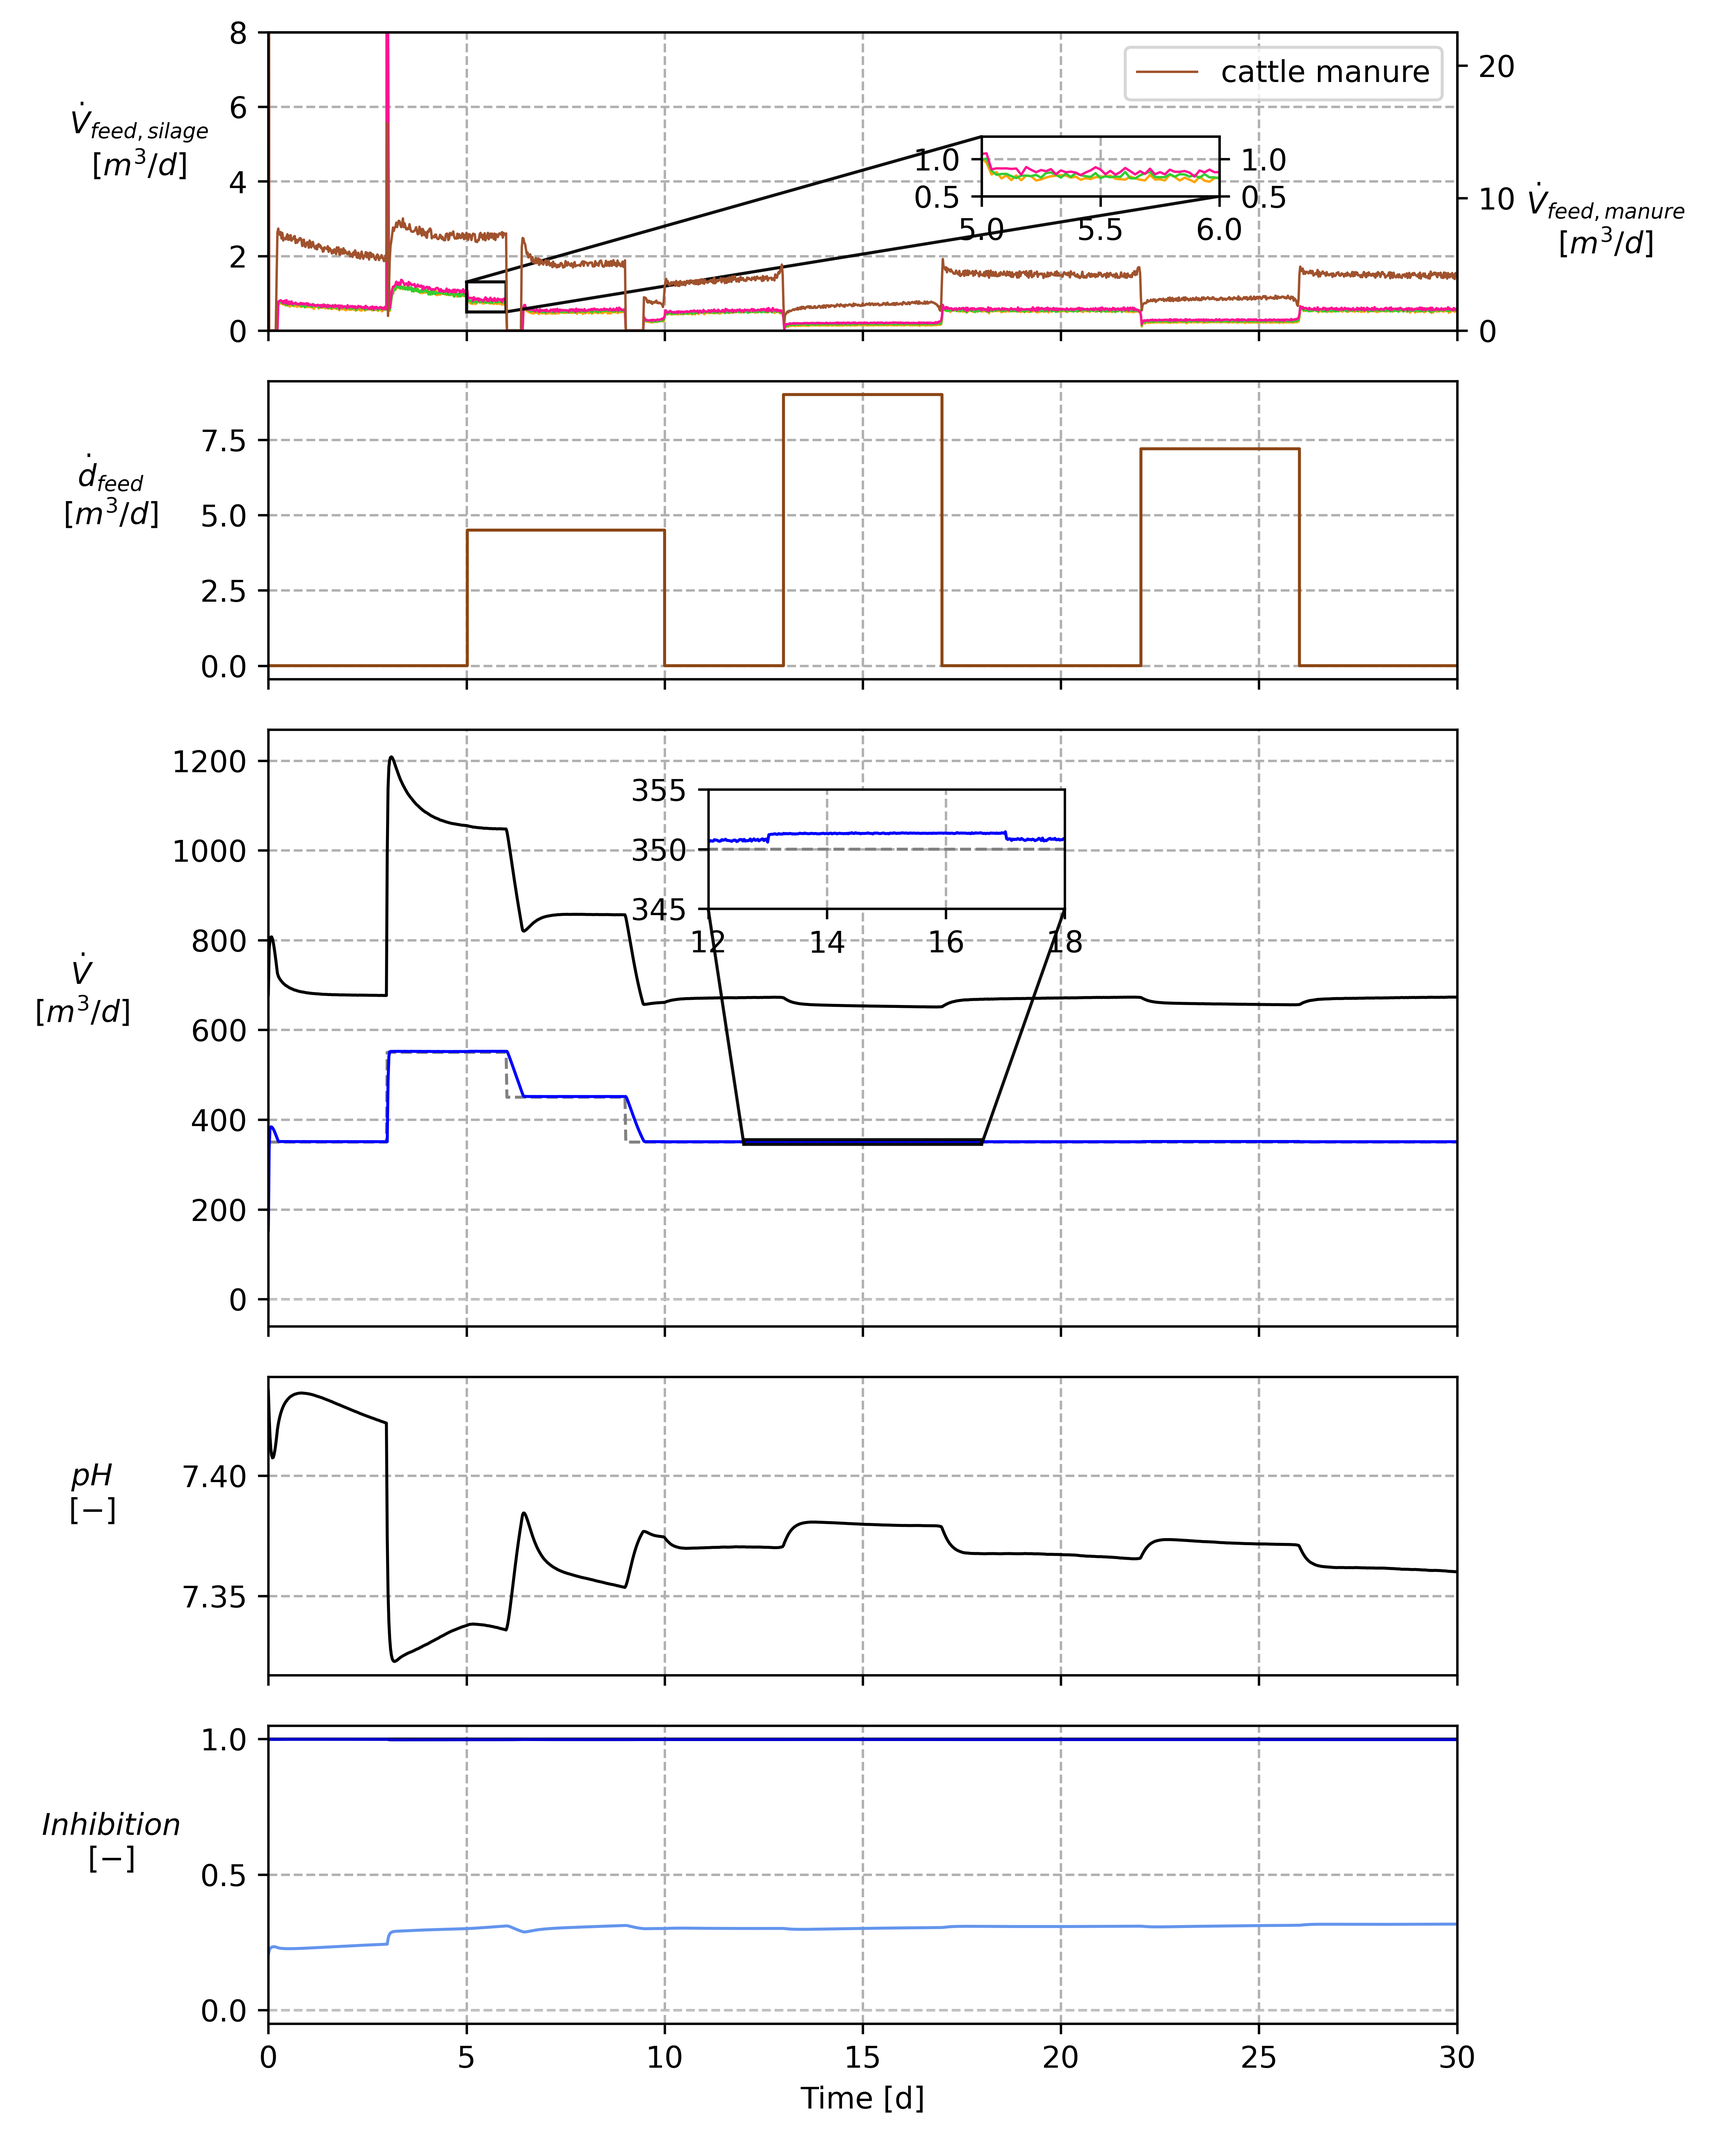
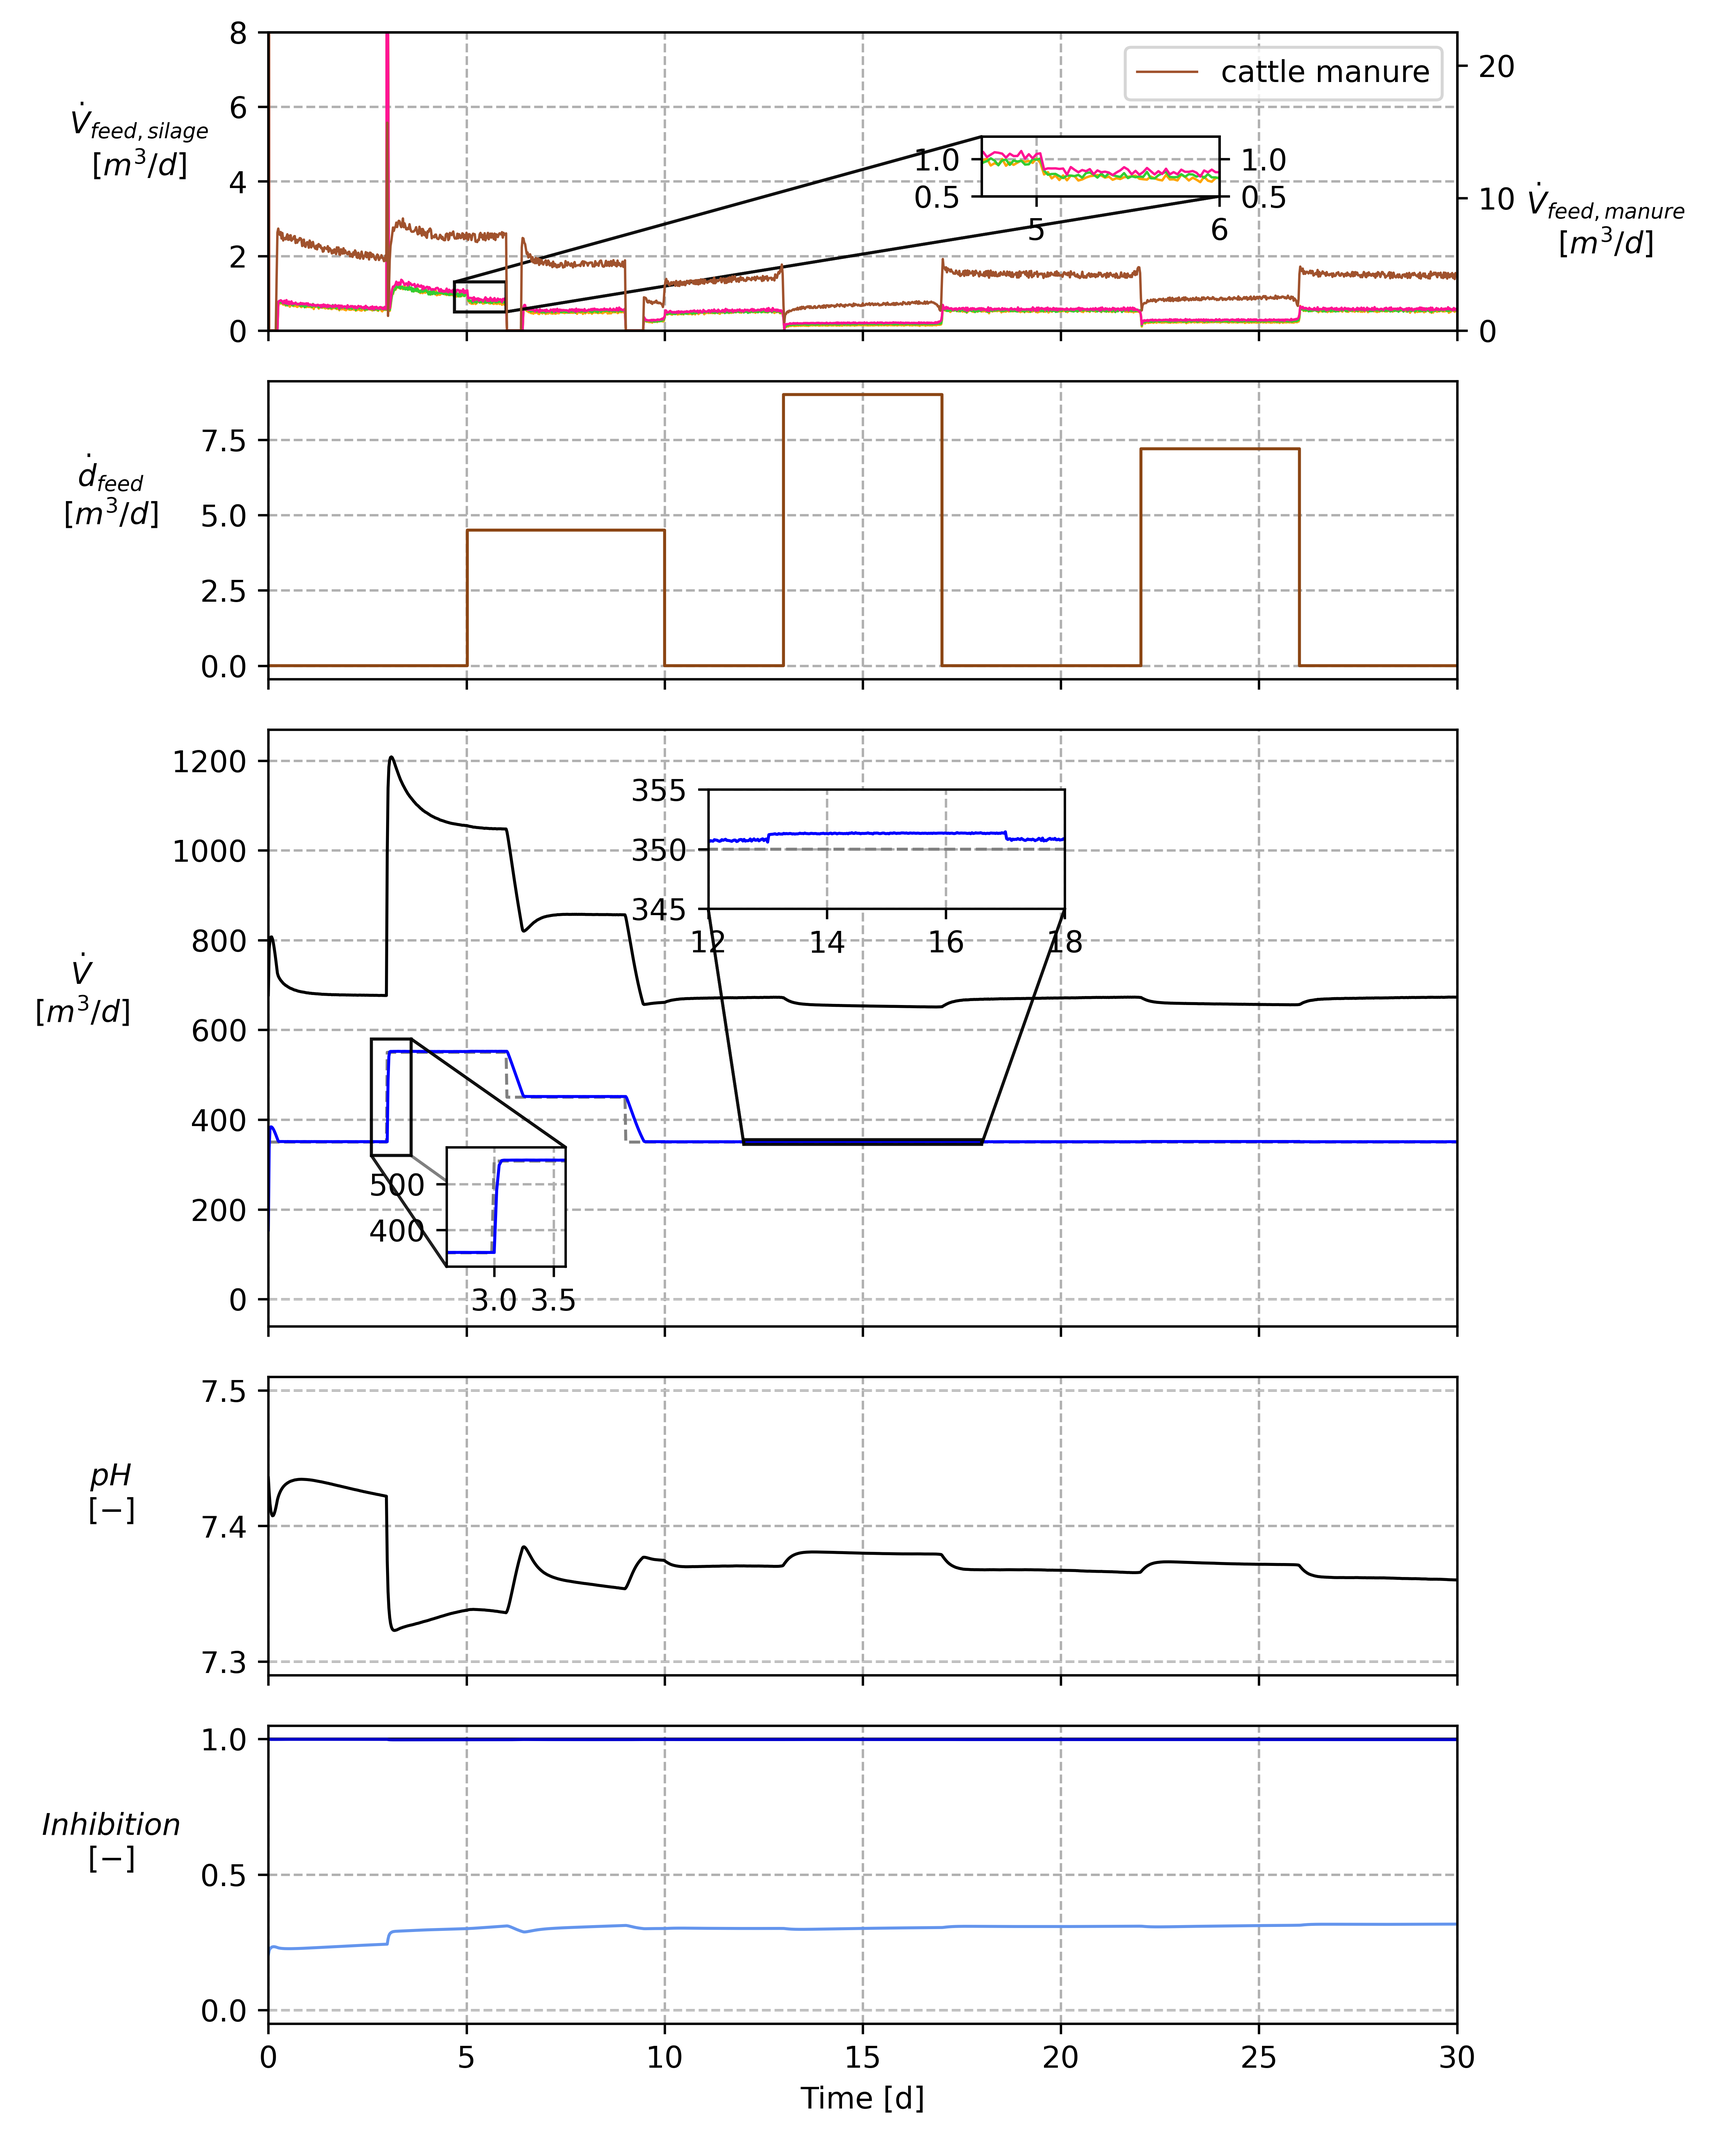
update plots of Sc. 1b

diff --git a/ad_meal_prep_control/plot_generation/plot_scenario_1b.py b/ad_meal_prep_control/plot_generation/plot_scenario_1b.py
@@ -100,6 +100,8 @@ for scenario_name, plot_save_name in zip(scenario_name, plot_save_name):
         constraints=[
             # adapt ylim of plots by adding invisible horizontal lines:
             Constraint(value=0, ax_idx=2, color="white"),  # gas production lower bound
+            Constraint(value=7.3, ax_idx=3, color="white"),  # pH lower bound
+            Constraint(value=7.5, ax_idx=3, color="white"),  # pH upper bound
             Constraint(value=0, ax_idx=4, color="white"),  # inhibtion lower bound
         ],
         time_range=(0.0, 30.0),
@@ -107,7 +109,7 @@ for scenario_name, plot_save_name in zip(scenario_name, plot_save_name):
         show_plot=show_plot,
         height_ratios=[1, 1, 2, 1, 1],
         input_inset_axis={
-            "days": (5, 6),
+            "days": (4.7, 6),
             "ylimit": (0.5, 1.3),
             "inset_axis_specs": (0.6, 0.45, 0.2, 0.2),
         },
@@ -117,6 +119,12 @@ for scenario_name, plot_save_name in zip(scenario_name, plot_save_name):
                 "days": (12, 18),
                 "ylimit": (345, 355),
                 "inset_axis_specs": (0.37, 0.7, 0.3, 0.2),
+            },
+            {
+                "plot_idx": 2,
+                "days": (2.6, 3.6),
+                "ylimit": (320, 580),
+                "inset_axis_specs": (0.15, 0.1, 0.1, 0.2),
             },
         ],
     )

diff --git a/ad_meal_prep_control/plot_generation/Controller_output_plotting/Output_Scenario_1b.py b/ad_meal_prep_control/plot_generation/Controller_output_plotting/Output_Scenario_1b.py
@@ -5,7 +5,7 @@ import matplotlib.pyplot as plt
 import pickle as pkl
 from ad_meal_prep_control.utils import remove_duplicate_labels
 
-def controller_plotting_1b (scenario_names=None):
+def controller_plotting_1b(scenario_names=None):
     if scenario_names is None:
         scenario_names = ["Scenario_1b_quadratic_nominal_feedback_mismatch_2std_3tsap"]
 
